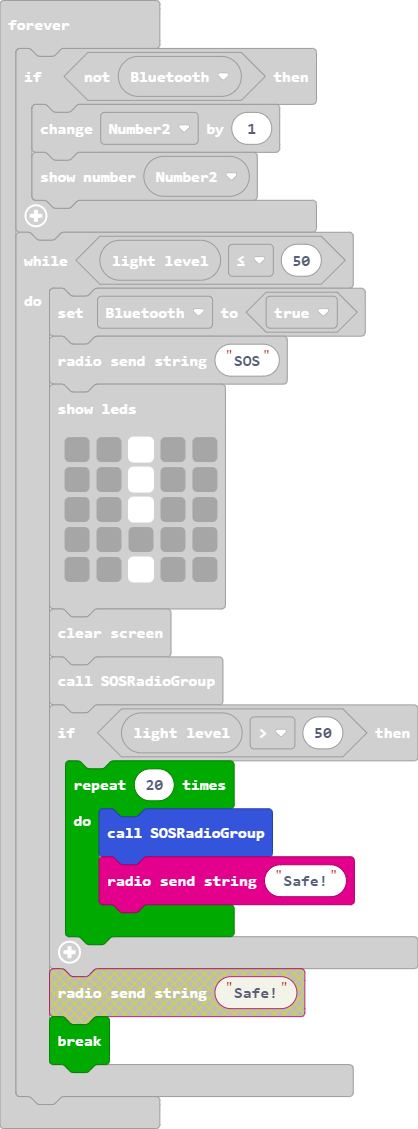
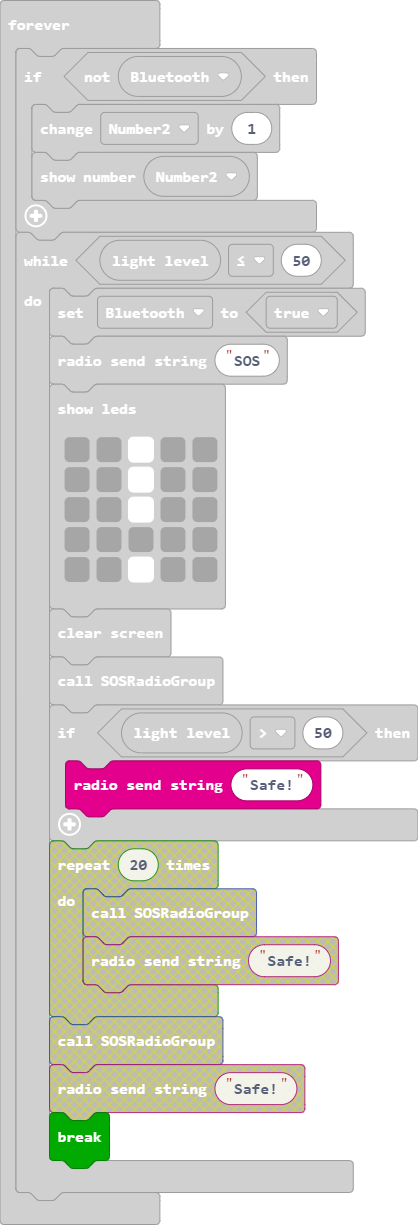
fixed sos

diff --git a/main.ts b/main.ts
@@ -1,50 +1,42 @@
-function SOSRadioGroup() {
-    
+function SOSRadioGroup () {
     radio.setGroup(BluetoothGroup)
     BluetoothGroup += 1
     if (BluetoothGroup == 20) {
         BluetoothGroup = 0
     }
-    
 }
-
-radio.onReceivedNumber(function on_received_number(receivedNumber: number) {
+radio.onReceivedNumber(function (receivedNumber) {
     basic.clearScreen()
     basic.showNumber(receivedNumber)
-    basic.showString("" + ("" + radio.receivedPacket(RadioPacketProperty.SignalStrength)))
+    basic.showString("" + radio.receivedPacket(RadioPacketProperty.SignalStrength))
 })
-input.onButtonPressed(Button.A, function on_button_pressed_a() {
-    
+input.onButtonPressed(Button.A, function () {
     basic.clearScreen()
     Radio()
     Number2 = 0
 })
-function Shapes() {
+function Shapes () {
     basic.showIcon(IconNames.Heart)
     basic.showIcon(IconNames.Tortoise)
     basic.showIcon(IconNames.LeftTriangle)
     basic.showIcon(IconNames.Pitchfork)
 }
-
-radio.onReceivedString(function on_received_string(receivedString: string) {
+radio.onReceivedString(function (receivedString) {
     basic.clearScreen()
     basic.showString(receivedString)
-    basic.showString("" + ("" + radio.receivedPacket(RadioPacketProperty.SignalStrength)))
+    basic.showString("" + radio.receivedPacket(RadioPacketProperty.SignalStrength))
 })
-input.onButtonPressed(Button.B, function on_button_pressed_b() {
-    
+input.onButtonPressed(Button.B, function () {
     basic.clearScreen()
     Shapes()
     Number2 = 0
     Bluetooth = false
 })
-function Radio() {
+function Radio () {
     radio.sendString("Hello World!")
     basic.showString("Message Sent!")
 }
-
-input.onGesture(Gesture.LogoDown, function on_gesture_logo_down() {
-    
+input.onGesture(Gesture.LogoDown, function () {
     basic.clearScreen()
     Number2 = 0
     Bluetooth = true
@@ -57,29 +49,26 @@ let Number2 = 0
 radio.setGroup(1)
 basic.showString("Hi")
 Number2 = 0
-basic.forever(function on_forever() {
-    
-    if (!Bluetooth) {
+basic.forever(function () {
+    if (!(Bluetooth)) {
         Number2 += 1
         basic.showNumber(Number2)
     }
-    
     while (input.lightLevel() <= 50) {
         Bluetooth = true
         radio.sendString("SOS")
         basic.showLeds(`
             . . # . .
-                        . . # . .
-                        . . # . .
-                        . . . . .
-                        . . # . .
-        `)
+            . . # . .
+            . . # . .
+            . . . . .
+            . . # . .
+            `)
         basic.clearScreen()
         SOSRadioGroup()
         if (input.lightLevel() > 50) {
             radio.sendString("Safe!")
-            break
+            break;
         }
-        
     }
 })
